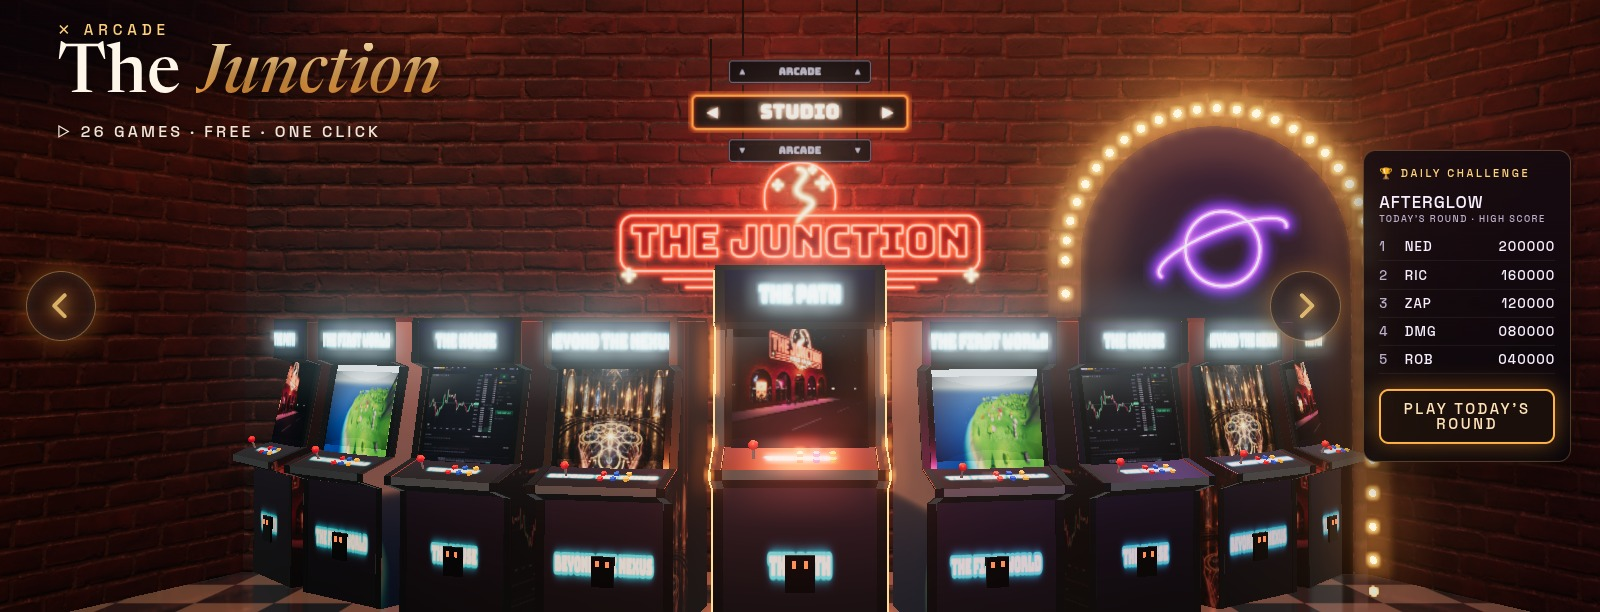
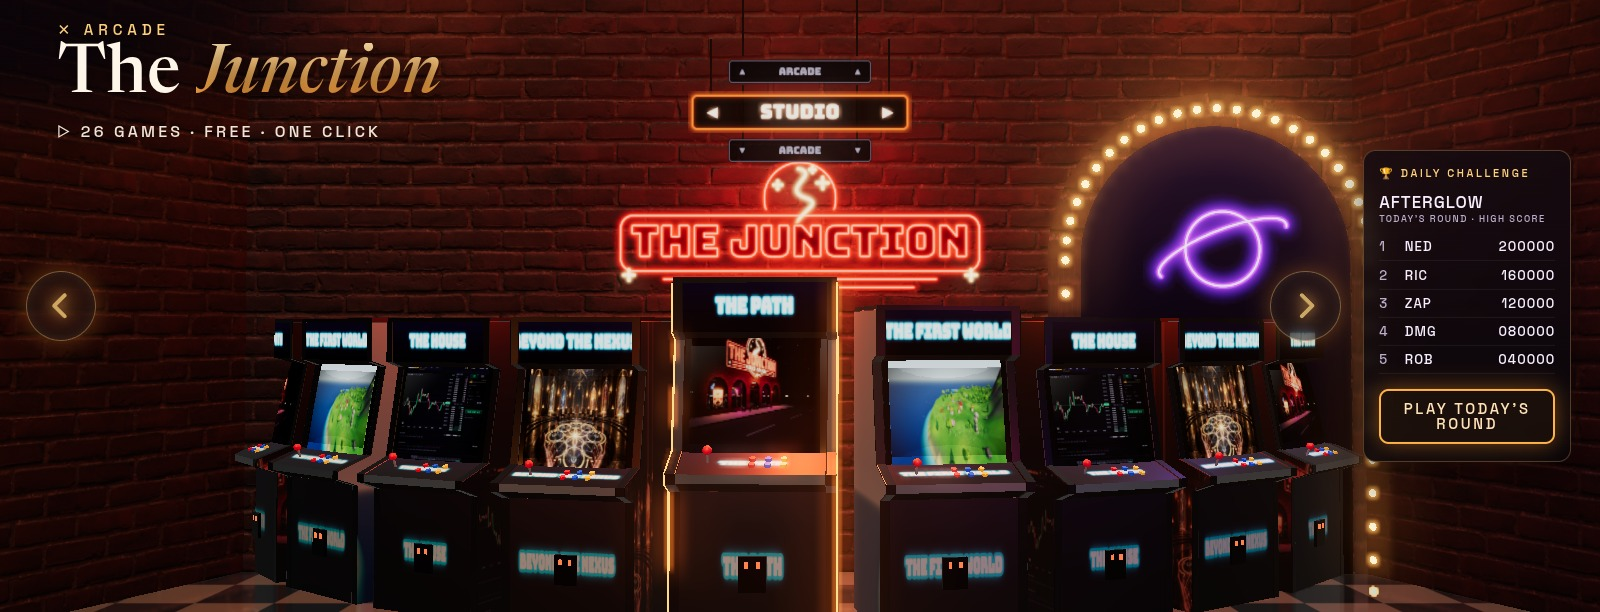
Arcade: carry the toned-down glow from the-junction-test web-studio-row, re-render the band poster

diff --git a/arcade/index.html b/arcade/index.html
@@ -183,7 +183,7 @@ const canvas = document.getElementById('gl');
 const renderer = new THREE.WebGLRenderer({ canvas, antialias: true, powerPreference: 'high-performance' });
 const DPR = Math.min(devicePixelRatio, coarse ? 1.5 : 1.75);
 renderer.setPixelRatio(DPR);
-renderer.toneMapping = THREE.ACESFilmicToneMapping; renderer.toneMappingExposure = 1.2;
+renderer.toneMapping = THREE.ACESFilmicToneMapping; renderer.toneMappingExposure = 1.05;
 renderer.outputColorSpace = THREE.SRGBColorSpace;
 const scene = new THREE.Scene();
 scene.background = new THREE.Color(0x0d0604);
@@ -196,7 +196,7 @@ const HOME = { pos: new THREE.Vector3(0, 1.95, 7.0), look: new THREE.Vector3(0, 
 const camPos = HOME.pos.clone(), camLook = HOME.look.clone();
 const composer = new EffectComposer(renderer);
 composer.addPass(new RenderPass(scene, camera));
-const bloom = new UnrealBloomPass(new THREE.Vector2(1, 1), 0.6, 0.45, 0.86);
+const bloom = new UnrealBloomPass(new THREE.Vector2(1, 1), 0.45, 0.45, 0.86);
 composer.addPass(bloom);
 composer.addPass(new OutputPass());
 
@@ -443,12 +443,12 @@ function nameArt(spec, w, h, size) {
 }
 function studioSkin(game) {
   const s = {}, art = tex(game.art);
-  s.marquee = new THREE.MeshBasicMaterial({ map: nameArt(game.spec, 1024, 256), color: HOT(0xffffff, 1.1), toneMapped: false });
+  s.marquee = new THREE.MeshBasicMaterial({ map: nameArt(game.spec, 1024, 256), color: HOT(0xffffff, 0.82), toneMapped: false });
   s.sideL = [new THREE.MeshStandardMaterial({ map: art, roughness: 0.42, metalness: 0.05, color: 0x8a8a8a }), black];
   s.sideR = [new THREE.MeshStandardMaterial({ map: art, roughness: 0.42, metalness: 0.05, color: 0x8a8a8a }), black];
-  s.kick = new THREE.MeshStandardMaterial({ map: nameArt(game.spec, 512, 256, 40), roughness: 0.5 });
+  s.kick = new THREE.MeshStandardMaterial({ map: nameArt(game.spec, 512, 256, 40), roughness: 0.5, color: 0x9a9a9a });
   s.panel = new THREE.MeshStandardMaterial({ map: nameArt(game.spec, 512, 256, 44), roughness: 0.45 });
-  s.screen = new THREE.MeshBasicMaterial({ map: art, color: HOT(0xffffff, 1.05), toneMapped: false });
+  s.screen = new THREE.MeshBasicMaterial({ map: art, color: HOT(0xffffff, 0.92), toneMapped: false });
   s.warm = 0; s.screenTex = art; s.game = game;
   s.runner = { phase: 'attract', dirty: false, step() {}, abort() {}, insertCoin() {}, table: { entries: [] }, attract: {} };
   SKINS.set(game.id, s); return s;
@@ -763,7 +763,7 @@ function frame(now) {
     const f = featured(); drawPlate(f.userData.game);
     plate.position.set(f.position.x, 0.2, (f.userData.type === 'cockpit' ? 1.45 : 0.95) + f.position.z); plate.visible = Math.abs(f.userData.d) < 0.35;
     const e = 1 - Math.pow(0.001, dt); camPos.lerp(HOME.pos, e); camLook.lerp(HOME.look, e);
-    bloom.strength += (0.6 - bloom.strength) * Math.min(1, dt * 4);
+    bloom.strength += (0.45 - bloom.strength) * Math.min(1, dt * 4);
   } else {
     const tgt = pushTarget();
     if (mode === 'push' || mode === 'pull') {
@@ -772,7 +772,7 @@ function frame(now) {
       camPos.copy(from.pos).lerp(to.pos, e); camLook.copy(from.look).lerp(to.look, e);
       if (camT >= 1) { if (mode === 'pull') { mode = 'aisle'; active = null; } else mode = 'play'; }
     } else { camPos.copy(tgt.pos); camLook.copy(tgt.look); }
-    bloom.strength += ((mode === 'play' ? 0.28 : 0.6) - bloom.strength) * Math.min(1, dt * 4);
+    bloom.strength += ((mode === 'play' ? 0.25 : 0.45) - bloom.strength) * Math.min(1, dt * 4);
   }
   camera.position.copy(camPos); camera.lookAt(camLook);
   // the tubes: every cabinet on show runs its own attract mode; the one being played takes the player's input
